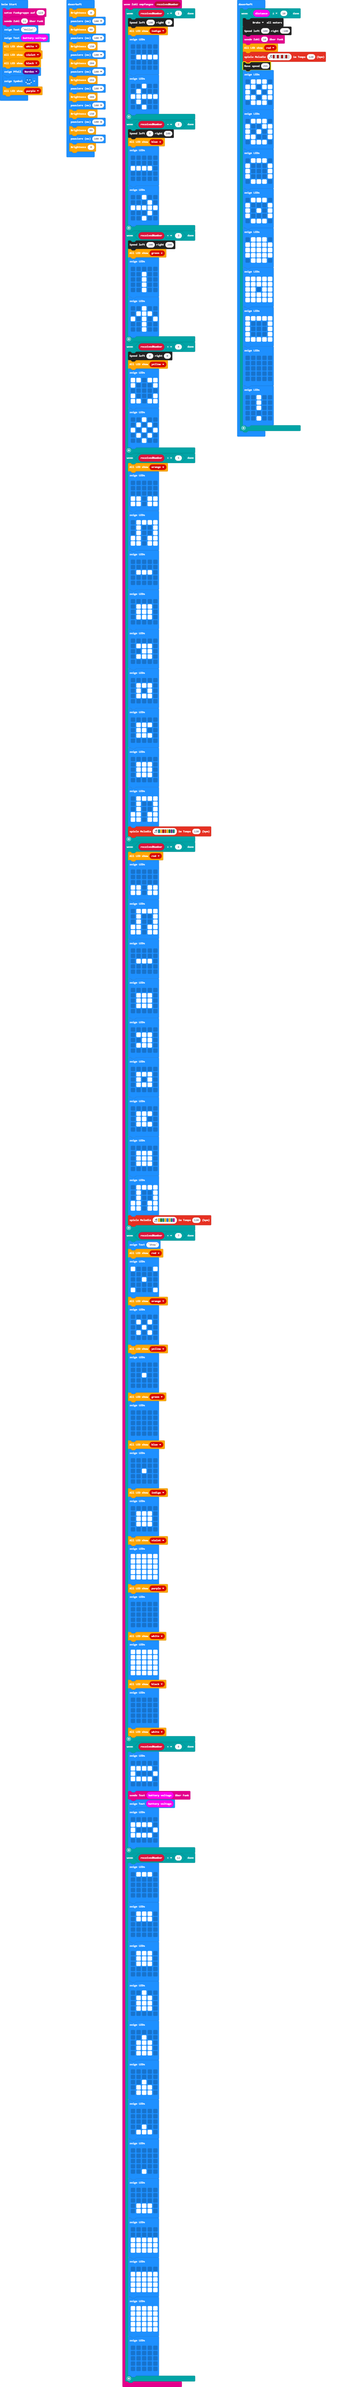
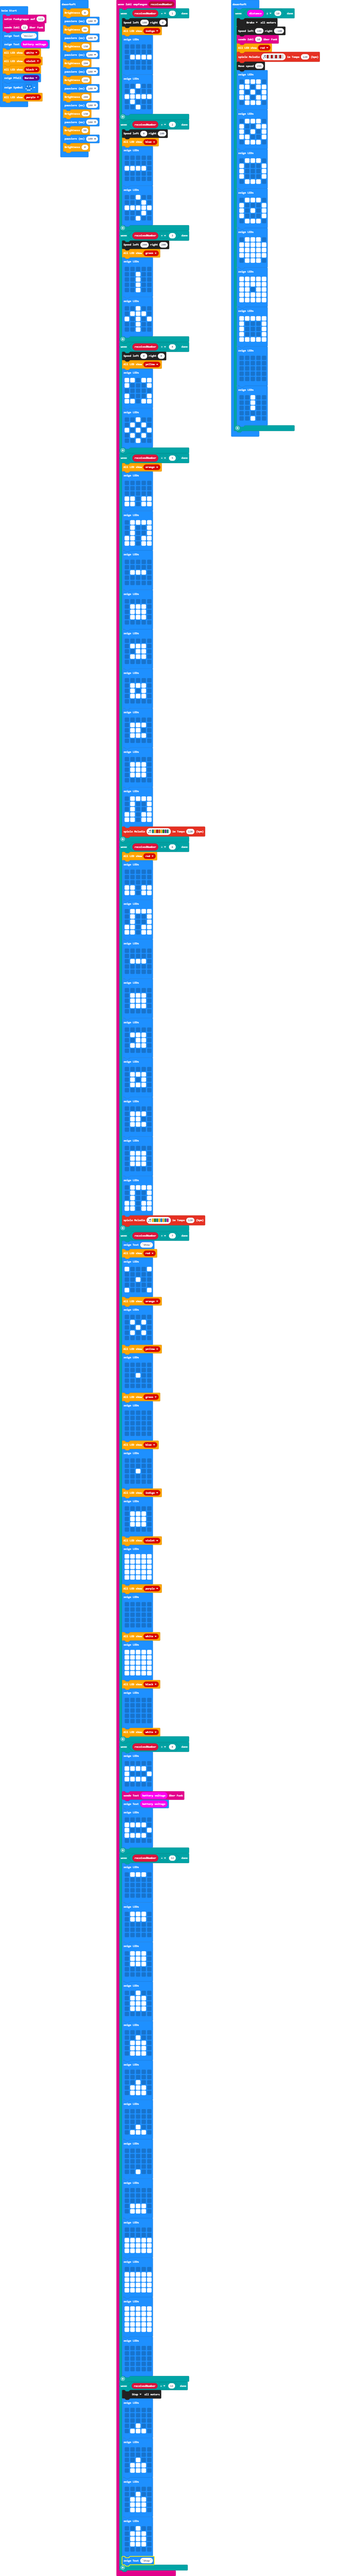
All Motors Stop

diff --git a/main.ts b/main.ts
@@ -400,6 +400,38 @@ radio.onReceivedNumber(function (receivedNumber) {
             . . . . .
             `)
     }
+    if (receivedNumber == 13) {
+        Rover.MotorStopAll(MotorActions.Stop)
+        basic.showLeds(`
+            . . . . .
+            . . . . .
+            . . . . .
+            . . # . .
+            . # # # .
+            `)
+        basic.showLeds(`
+            . . . . .
+            . . . . .
+            . . # . .
+            . # # # .
+            . # # # .
+            `)
+        basic.showLeds(`
+            . . . . .
+            . . # . .
+            . # # # .
+            . # # # .
+            . # # # .
+            `)
+        basic.showLeds(`
+            . . # . .
+            . # # # .
+            . # # # .
+            . # # # .
+            . . . . .
+            `)
+        basic.showString("Stop")
+    }
 })
 radio.setGroup(123)
 radio.sendNumber(11)
